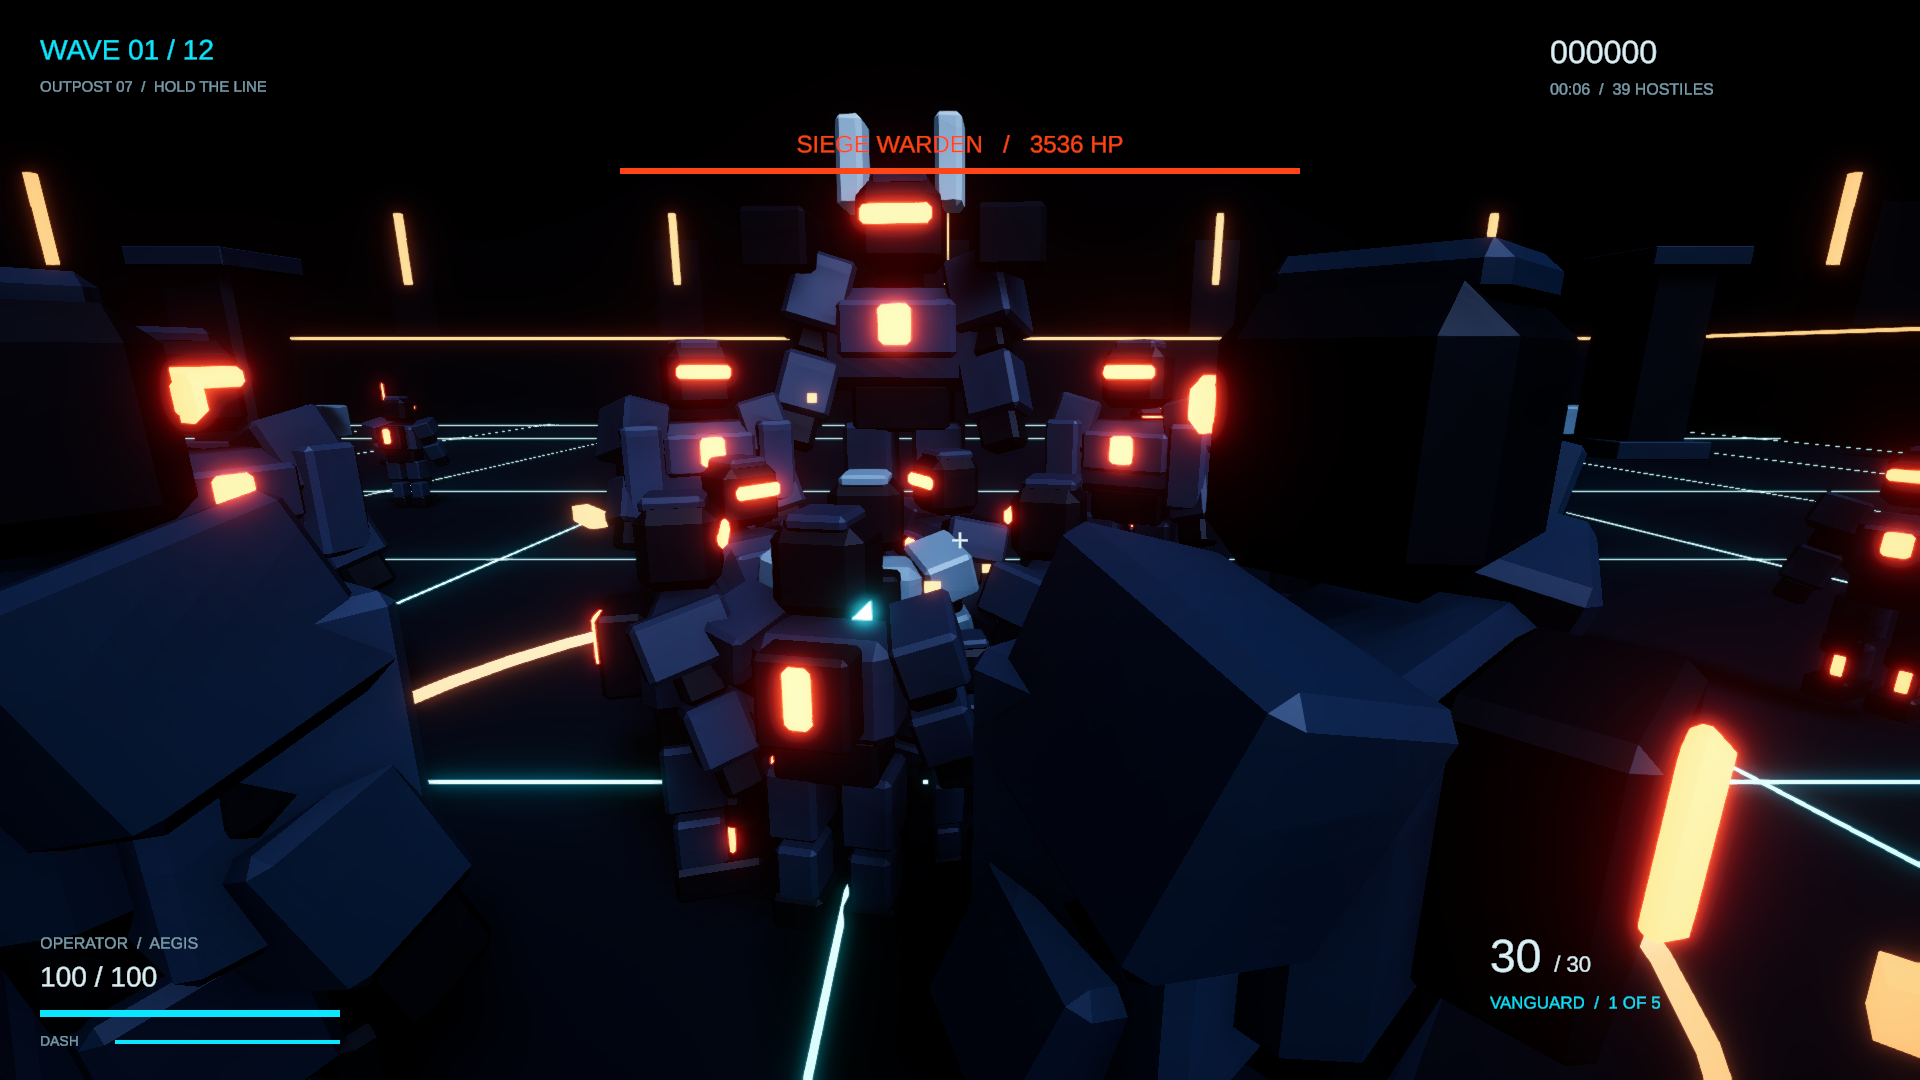
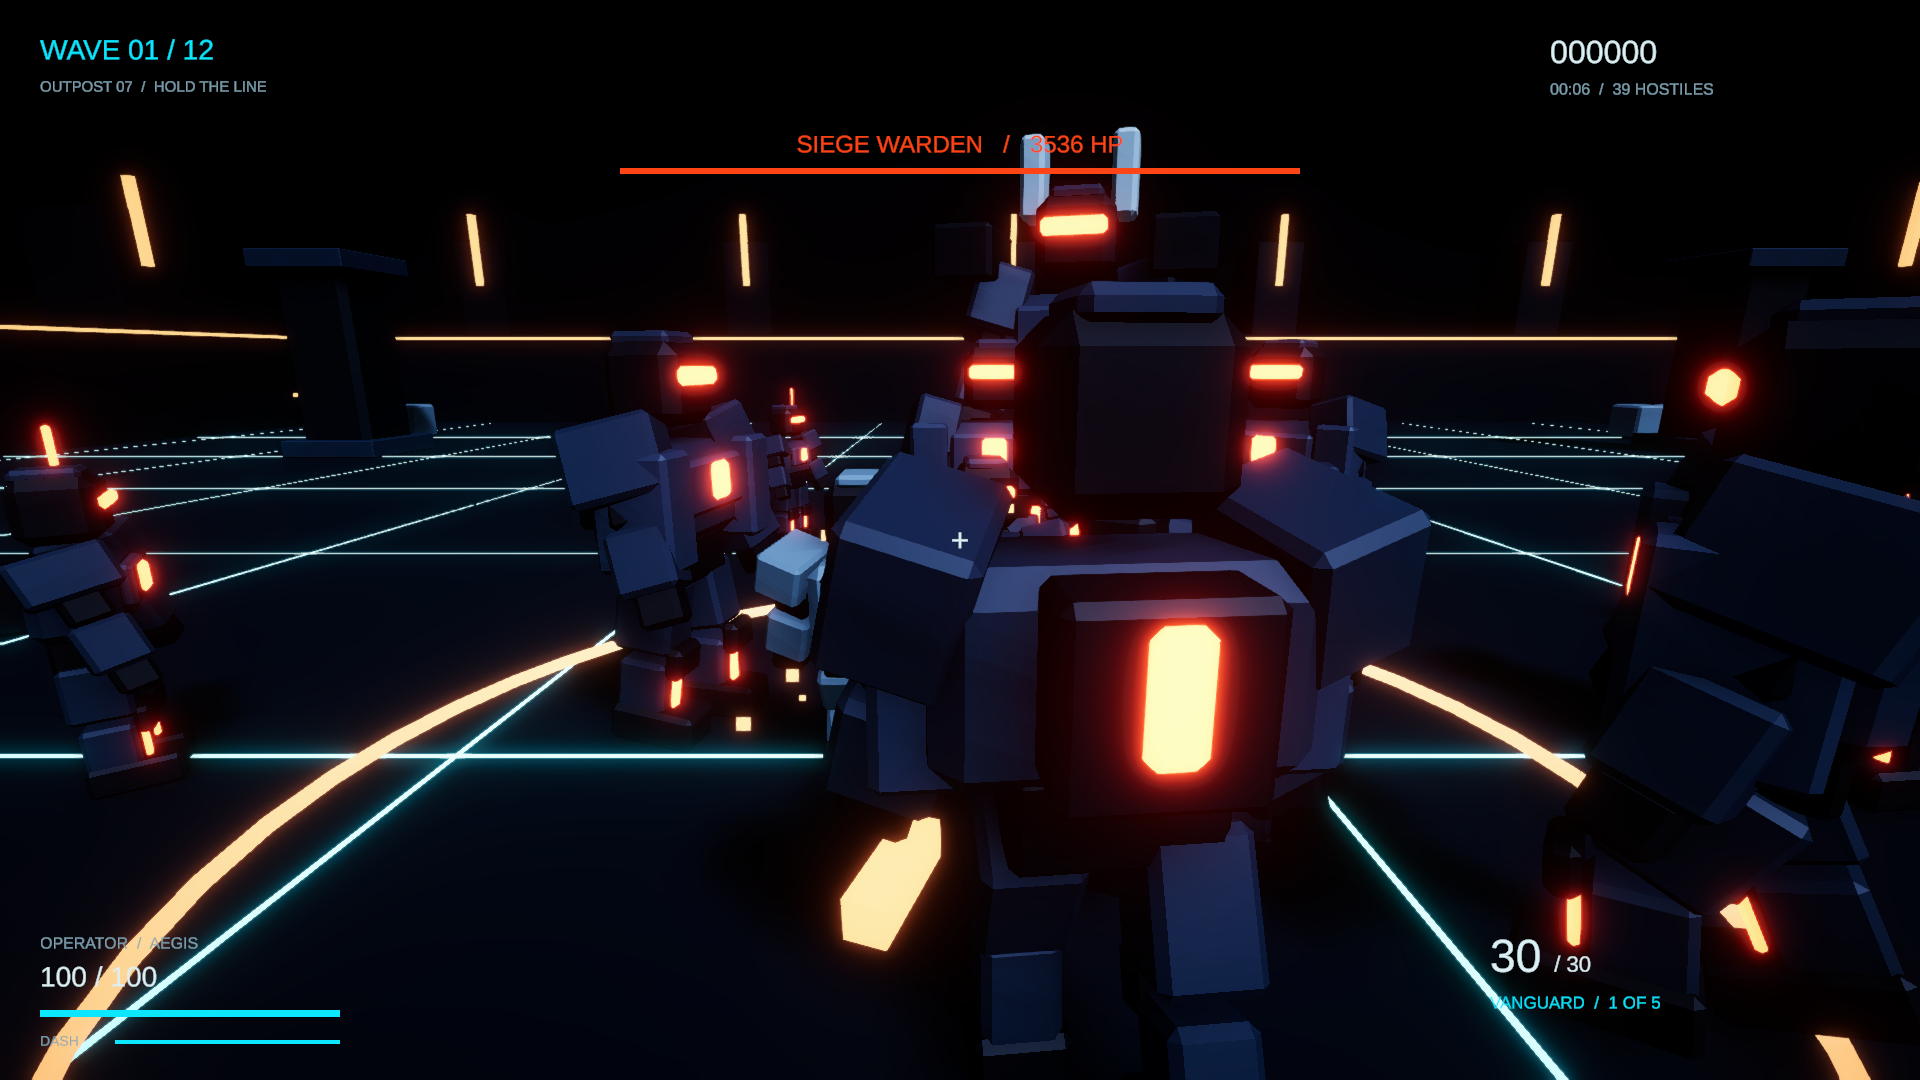
Add documentation and validation scripts for package verification and performance testing
- Created normal-run-progress.txt to log gameplay performance metrics for normal-speed controller playtest.
- Added package-validation.txt to document the results of the packaged Windows player validation.
- Introduced performance-20-enemy-fixture.txt to record performance metrics with 20 enemies in a test scenario.
- Implemented verify-package.ps1 script to automate the validation of the packaged build, ensuring file integrity and successful execution of the game.

diff --git a/Assets/_Project/Scripts/Core/RuntimeDiagnostics.cs b/Assets/_Project/Scripts/Core/RuntimeDiagnostics.cs
@@ -5,7 +5,10 @@ using UnityEngine;
 namespace NeonSiege {
  public sealed class RuntimeDiagnostics : MonoBehaviour {
   ProfilerRecorder batches,triangles,drawCalls;readonly float[] frames=new float[64000];int count,maxBatches,maxDrawCalls;long maxTriangles;float elapsed;Bootstrap boot;bool testing,captured;
-  public void Initialize(Bootstrap b){boot=b;testing=Environment.CommandLine.Contains("-siegePerf");if(!testing)return;Screen.SetResolution(1920,1080,FullScreenMode.Windowed);Application.targetFrameRate=-1;QualitySettings.vSyncCount=0;drawCalls=ProfilerRecorder.StartNew(ProfilerCategory.Render,"Draw Calls Count");batches=ProfilerRecorder.StartNew(ProfilerCategory.Render,"Batches Count");triangles=ProfilerRecorder.StartNew(ProfilerCategory.Render,"Triangles Count");boot.Player.GodMode=true;boot.Session.StartRun();boot.Waves.Stop();for(int i=0;i<24;i++){float a=i*Mathf.PI*2/24;boot.Enemies.Spawn(i==0?EnemyKind.Boss:(EnemyKind)(i%4),10,new Vector3(Mathf.Sin(a)*14,0,Mathf.Cos(a)*14));}}
+  public void Initialize(Bootstrap b){boot=b;testing=Environment.CommandLine.Contains("-siegePerf");if(!testing)return;Screen.SetResolution(1920,1080,FullScreenMode.Windowed);Application.targetFrameRate=-1;QualitySettings.vSyncCount=0;drawCalls=ProfilerRecorder.StartNew(ProfilerCategory.Render,"Draw Calls Count");batches=ProfilerRecorder.StartNew(ProfilerCategory.Render,"Batches Count");triangles=ProfilerRecorder.StartNew(ProfilerCategory.Render,"Triangles Count");boot.Player.GodMode=true;boot.Session.StartRun();boot.Waves.Stop();for(int i=0;i<24;i++){
+   bool spawned=false;for(int attempt=0;attempt<72&&!spawned;attempt++){float a=i*Mathf.PI*2/24+attempt*.17f,radius=14+attempt%3*3;spawned=boot.Enemies.Spawn(i==0?EnemyKind.Boss:(EnemyKind)(i%4),10,new Vector3(Mathf.Sin(a)*radius,0,Mathf.Cos(a)*radius));}
+   if(!spawned)throw new InvalidOperationException("Performance fixture could not spawn all 24 enemies");
+  }Debug.Log("PERFORMANCE_FIXTURE_ALIVE="+boot.Enemies.Alive);}
   void Update(){if(!testing)return;elapsed+=Time.unscaledDeltaTime;boot.Player.Health=boot.Player.MaxHealth;if(elapsed>5&&elapsed<40){if(count<frames.Length)frames[count++]=Time.unscaledDeltaTime*1000;maxDrawCalls=Mathf.Max(maxDrawCalls,(int)drawCalls.LastValue);maxBatches=Mathf.Max(maxBatches,(int)batches.LastValue);maxTriangles=Math.Max(maxTriangles,triangles.LastValue);}
    if(elapsed>10&&!captured){captured=true;ScreenCapture.CaptureScreenshot(Path.Combine(Application.dataPath,"../performance-scene.png"));}
    if(elapsed<40||count==0)return;Array.Sort(frames,0,count);double total=0;for(int i=0;i<count;i++)total+=frames[i];string result=$"GPU: {SystemInfo.graphicsDeviceName}\nResolution: {Screen.width}x{Screen.height}\nQuality: {boot.Session.Save.Quality}\n24 enemies including one wave-10 boss; stationary invulnerable operator; 5-second warmup, 35-second sample.\nSamples: {count}\nAverage FPS: {count*1000/total:F1}\nMedian frame ms: {frames[count/2]:F2}\n95th percentile ms: {frames[Mathf.Min(count-1,(int)(count*.95f))]:F2}\nMax draw calls: {maxDrawCalls}\nMax batches: {maxBatches}\nMax triangles: {maxTriangles}\nCounters of zero mean unavailable.\n";File.WriteAllText(Path.Combine(Application.dataPath,"../performance.txt"),result);Debug.Log("PERFORMANCE_PASS\n"+result);testing=false;Application.Quit();}

diff --git a/Assets/_Project/Scripts/Core/CombatValidation.cs b/Assets/_Project/Scripts/Core/CombatValidation.cs
@@ -20,6 +20,10 @@ namespace NeonSiege {
    var inputA=new PlayerInput();inputA.Dash.ApplyBindingOverride(0,"<Keyboard>/f");string bindingJson=inputA.Asset.SaveBindingOverridesAsJson();var inputB=new PlayerInput();inputB.Asset.LoadBindingOverridesFromJson(bindingJson);Check(inputB.Dash.bindings[0].effectivePath=="<Keyboard>/f","Rebinding survives a fresh input instance");inputA.Dispose();inputB.Dispose();var original=SaveStore.Load();var fixture=new SaveData{HighScore=12345,Fov=77,Fps=144};SaveStore.Save(fixture);var loaded=SaveStore.Load();Check(loaded.HighScore==12345&&loaded.Fov==77&&loaded.Fps==144,"JSON disk save/load round trip");SaveStore.Save(original);
    var avatar=ArtLibrary.Load().Operator.GetComponent<Animator>()?.avatar;Check(avatar&&avatar.isValid&&avatar.isHuman,"Valid humanoid operator avatar");Check(boot.Audio.Sfx.outputAudioMixerGroup&&boot.Audio.Music.outputAudioMixerGroup,"Audio mixer groups routed");Check(LightmapSettings.lightmaps.Length>0&&LightmapSettings.lightProbes!=null,"Baked lighting and probes loaded");
    boot.Session.Menu();var menuPad=InputSystem.AddDevice<Gamepad>();yield return Press(menuPad,GamepadButton.South);Check(boot.Session.State==RunState.Playing,"Gamepad submits main-menu Deploy button");yield return Press(menuPad,GamepadButton.Start);Check(boot.Session.State==RunState.Paused,"Gamepad opens pause menu");yield return Press(menuPad,GamepadButton.DpadDown);yield return Press(menuPad,GamepadButton.South);Check(boot.Session.CaptureInput,"Gamepad navigates to Settings");ScreenCapture.CaptureScreenshot(Path.Combine(Application.dataPath,"../settings.png"));yield return new WaitForSecondsRealtime(.3f);InputSystem.RemoveDevice(menuPad);
+   var beforeEndScreens=SaveStore.Load();var restartPad=InputSystem.AddDevice<Gamepad>();
+   boot.Session.End(false);yield return Press(restartPad,GamepadButton.South);Check(boot.Session.State==RunState.Playing&&boot.Waves.Wave==1&&boot.Session.Kills==0,"Gamepad redeploys from defeat with a fresh run");
+   boot.Session.End(true);yield return Press(restartPad,GamepadButton.South);Check(boot.Session.State==RunState.Playing&&boot.Waves.Wave==1&&boot.Player.Health==boot.Player.MaxHealth,"Gamepad redeploys from victory with restored health");
+   InputSystem.RemoveDevice(restartPad);SaveStore.Save(beforeEndScreens);boot.Session.Save.HighScore=beforeEndScreens.HighScore;
    boot.Session.Menu();yield return new WaitForSecondsRealtime(.3f);ScreenCapture.CaptureScreenshot(Path.Combine(Application.dataPath,"../menu.png"));yield return new WaitForSecondsRealtime(.5f);Screen.SetResolution(2560,1080,FullScreenMode.Windowed);yield return new WaitForSecondsRealtime(1);results.Add($"INFO Ultrawide capture resolution: {Screen.width}x{Screen.height}");ScreenCapture.CaptureScreenshot(Path.Combine(Application.dataPath,"../ultrawide.png"));yield return new WaitForSecondsRealtime(.5f);File.WriteAllLines(Path.Combine(Application.dataPath,"../combat-validation.txt"),results);Debug.Log(passed?"COMBAT_QA_PASS":"COMBAT_QA_FAIL");Application.Quit(passed?0:1);
   }
  }

diff --git a/Docs/VALIDATION.md b/Docs/VALIDATION.md
@@ -5,6 +5,21 @@ Host GPU detected by Unity: NVIDIA GeForce RTX 3050 6GB Laptop GPU.
 
 This file records actual checks, not assumed completion.
 
+## Definition of Done audit
+
+| Requirement | Evidence / status |
+| --- | --- |
+| Launches to main menu | Standalone capture and controller Deploy check pass. |
+| Full run: 10+ waves and boss | Normal-speed victory: 12 waves, 2 bosses, 11 upgrades, 378 kills. |
+| 10–15 minute run | 610.8 seconds of gameplay; 645.7 seconds including upgrade selection (10:46). |
+| Holds 60 FPS on target hardware | Full-run sample on RTX 3050 Laptop: 143.8 FPS average at a 144 cap, 6.98 ms p95; 2 of 88,643 sampled frames exceeded 16.67 ms. |
+| No console errors | Full-run runtime errors: 0; standalone logs scanned for exceptions, warnings and unsupported shaders. |
+| Windows x86-64 build | Successful DirectX 11 / Mono standalone build. |
+| README | Controls, extension points, build and validation commands included. |
+| Playable and fun | Actual combat/progression verified. Subjective enjoyment and human difficulty remain a human acceptance check. |
+
+The objective technical checks pass. A scene-aware virtual controller cannot establish whether a human finds the game fun. This audit does not mark that subjective criterion as verified.
+
 ## M1 — foundation
 - URP template imported successfully.
 - Initial C# compile succeeded; deprecated `FindFirstObjectByType` replaced with `FindAnyObjectByType`.
@@ -26,7 +41,7 @@ This file records actual checks, not assumed completion.
 ## M7 — baked arena and standalone
 - GPU light bake completed successfully with saved lightmaps, shadowmask, 50 light probes, and navigation data.
 - Windows x86-64 / DirectX 11 / Mono build succeeded. Project C# compilation has no errors or warnings.
-- 28 standalone checks passed: five weapons and reloads, sniper piercing, cover blocking, virtual-gamepad movement/dash/menu navigation, persistent bindings, disk JSON save/load, humanoid rig/pose, mixer routing, and baked lighting. See `combat-validation.txt`.
+- 30 standalone checks passed: five weapons and reloads, sniper piercing, cover blocking, virtual-gamepad movement/dash/menu navigation, persistent bindings, disk JSON save/load, humanoid rig/pose, mixer routing, baked lighting, and controller redeploy from both defeat and victory with fresh run state. See `combat-validation.txt`.
 - The normal-speed run exposed ground navigation beneath solid pillars/cover. Explicit unwalkable volumes now exclude all eight footprints; spawn clearance and path-connectivity checks prevent invalid spawn positions, and melee requires line of sight. The saved navigation mesh was rebuilt without changing baked lighting. All valid perimeter routes and eight obstacle exclusions passed `navigation-validation.txt`; standalone combat checks passed again afterwards.
 - 30 layout assertions passed at actual 1920×1080 and 2560×1080 render-target sizes: seven screens per size, all active controls inside the viewport, and a centered HUD crosshair. Screenshots are in `Screenshots/layout-*`. The fixture uses a camera-space canvas to render beyond this desktop's native window-size limit; it does not certify an attached ultrawide monitor. A fixture near-plane clipping issue was corrected before the final captures.
 - Final standalone QA and performance logs contained no runtime errors, warnings, or unsupported-shader messages. Unity's editor package import can emit an optional Cinemachine HDRP sample assembly-reference message; HDRP is not installed or used.
@@ -34,24 +49,40 @@ This file records actual checks, not assumed completion.
 
 ## Measured performance
 
+The complete normal-speed run is recorded in `normal-run-validation.txt`, with wave events in `normal-run-progress.txt` and the victory screen in `Screenshots/normal-victory.png`. It uses the normal Input Actions and UI, normal enemy/weapon/wave tuning, no invulnerability, no direct damage/healing, no teleports and no time acceleration. The operator's minimum recorded health was 33.5; it fired 1,966 shots. The controller uses scene-state targeting and waypoint navigation. Saved settings and high score were restored after the test.
+
+| Full-run metric | Result |
+| --- | ---: |
+| Resolution / quality | 1920×1080 / Medium |
+| Sampled gameplay frames | 88,643 |
+| Average FPS (144 cap) | 143.8 |
+| 95th-percentile frame time | 6.98 ms |
+| Frames over 16.67 ms | 2 (0.0023%) |
+| Peak draw calls | 259 |
+| Peak triangles | 61,578 |
+| Runtime errors | 0 |
+
+This meets the performance and rendering-budget targets for the measured complete run. It is not a guarantee for every machine, random run or background workload. The test captures screenshots at two wave transitions; its frame sample includes those occasional capture costs.
+
 The final `performance.txt` sample uses Medium quality at 1920×1080 on the RTX 3050 Laptop GPU, uncapped with VSync off, 24 enemies including a wave-10 boss, and an invulnerable stationary operator. It records 35 seconds after a five-second warmup.
 
 | Metric | Result |
 | --- | ---: |
-| Samples | 13,713 |
-| Average FPS | 391.8 |
-| Median frame time | 2.64 ms |
-| 95th-percentile frame time | 3.46 ms |
-| Peak draw calls | 299 |
-| Peak triangles | 86,018 |
+| Samples | 13,707 |
+| Average FPS | 391.6 |
+| Median frame time | 2.58 ms |
+| 95th-percentile frame time | 3.37 ms |
+| Peak draw calls | 312 |
+| Peak triangles | 88,920 |
 
-These observations meet the requested targets in this scenario. They do not guarantee stable performance throughout every full run or on another machine. The legacy batch counter returned zero (unavailable); the draw-call counter is reported separately. Random enemy placement means repeat measurements can vary.
+The final fixture confirms `PERFORMANCE_FIXTURE_ALIVE=24` before sampling. It exceeds the 60 FPS target and stays below 500k triangles. Its 312 peak draw calls are 4% above the approximate 300-call goal; the normal full run peaked at 259. The legacy batch counter returned zero (unavailable); draw calls are reported separately. An intermediate fixture attempted 24 spawns but only 20 passed the new safety checks; that superseded report is retained as `performance-20-enemy-fixture.txt` and must not be treated as a 24-enemy measurement. Random placement and background workloads can change results.
 
 ## Remaining playtest and presentation limits
-- A normal 10–15 minute run has not been played end to end to establish difficulty, duration, or fun. The full-run test accelerates spawning and directly damages enemies.
+- A normal-speed 12-wave run now completes within the duration target. Human difficulty and fun are not established by the automated controller. The older `full-run-validation.txt` remains an accelerated progression test and must not be confused with `normal-run-validation.txt`.
 - A physical Xbox controller has not been tested; controller tests inject a virtual Input System gamepad.
 - 21:9 rendering is verified offscreen. This workstation has no physical ultrawide display for native monitor testing.
 - Character animation, synthesized audio and the short adaptive music loop are prototype assets. Enemy death uses a burst and immediate pool return. See the README TODOs.
+- Computer Use inspected the game in earlier checks. During the final pass, native window activation failed twice with "failed to activate captured window"; final visual evidence therefore comes from the game's own rendered captures.
 
 ## Environment differences
 - No Unity or Blender MCP tool is exposed. Installed applications are driven through command-line scripts; Computer Use is available for visual checks.

diff --git a/README.md b/README.md
@@ -8,6 +8,8 @@ Run `Builds/Windows/NeonSiege.exe` when the build is present. Keep the executabl
 
 For distribution, run `Tools/package-player.ps1` and share `Builds/NeonSiege-Windows.zip`. Extract the complete archive before playing.
 
+Run `Tools/verify-package.ps1` to extract the ZIP into an ignored test folder, compare every packaged file with the build, check the x64 executable, and launch the extracted player for all 30 combat/input/save/restart checks. Its result is saved in `Docs/package-validation.txt`.
+
 | Action | Keyboard / mouse | Xbox controller |
 | --- | --- | --- |
 | Move / look | WASD / mouse | Left / right stick |
@@ -55,7 +57,7 @@ Commit `.gitignore`, `Assets` and their `.meta` files, `Packages`, `ProjectSetti
 
 Settings, input overrides, and high score live in `Application.persistentDataPath/profile.json` (normally `%USERPROFILE%\AppData\LocalLow\Siege Studio\NEON SIEGE`). Missing/corrupt profiles fall back to defaults. Saves are local only.
 
-Validation evidence and limitations are recorded in `Docs/VALIDATION.md`. `Docs/full-run-validation.txt` records an accelerated progression test; it does not certify difficulty or normal run duration. `Docs/asset-stats.json` records exported mesh triangle counts.
+Validation evidence and limitations are recorded in `Docs/VALIDATION.md`. `Docs/normal-run-validation.txt` records a normal-speed controller-driven victory: 12 waves, both bosses and 378 kills in 10:46 including upgrades, averaging 143.8 FPS at 1080p Medium on an RTX 3050 Laptop GPU. `Docs/full-run-validation.txt` is an older accelerated progression test. Neither automation test certifies human difficulty or subjective enjoyment. `Docs/asset-stats.json` records exported mesh triangle counts.
 
 Reproduce the editor progression check with `Tools/unity.ps1 -Method NeonSiege.Editor.RunValidation.FullRun -Log full-run.log -Play`. Launch the executable with `-siegeQA` for combat/input/save/asset checks, or `-siegePerf` for a 1080p, 24-enemy performance sample. These modes quit automatically and write reports beside the executable. Performance mode uses an invulnerable stationary operator and uncapped rendering; it is not a full-run benchmark.
 
@@ -67,7 +69,7 @@ Reproduce the editor progression check with `Tools/unity.ps1 -Method NeonSiege.E
 
 - Refine the procedural rigid-weight character animation and weapon poses. Idle/run/reload use the custom rigs; death currently uses a particle burst and immediate pool return instead of the exported death clip.
 - Replace the synthesized sound palette and short music loop if a richer audio identity is desired.
-- Playtest normal 12-wave difficulty and the intended 10–15 minute duration. Automated progression checks do not establish whether the balance is fun.
+- Human-playtest difficulty, weapon feel and replayability. The normal-speed automated run verifies completion and the 10–15 minute duration target; subjective fun remains a human acceptance check.
 - Verify physical Xbox controller feel; automated input checks use a virtual gamepad.
 - Enemy meshes are under 1,400 triangles and capped at 24 concurrent actors; separate mesh LODs are not included.
 
